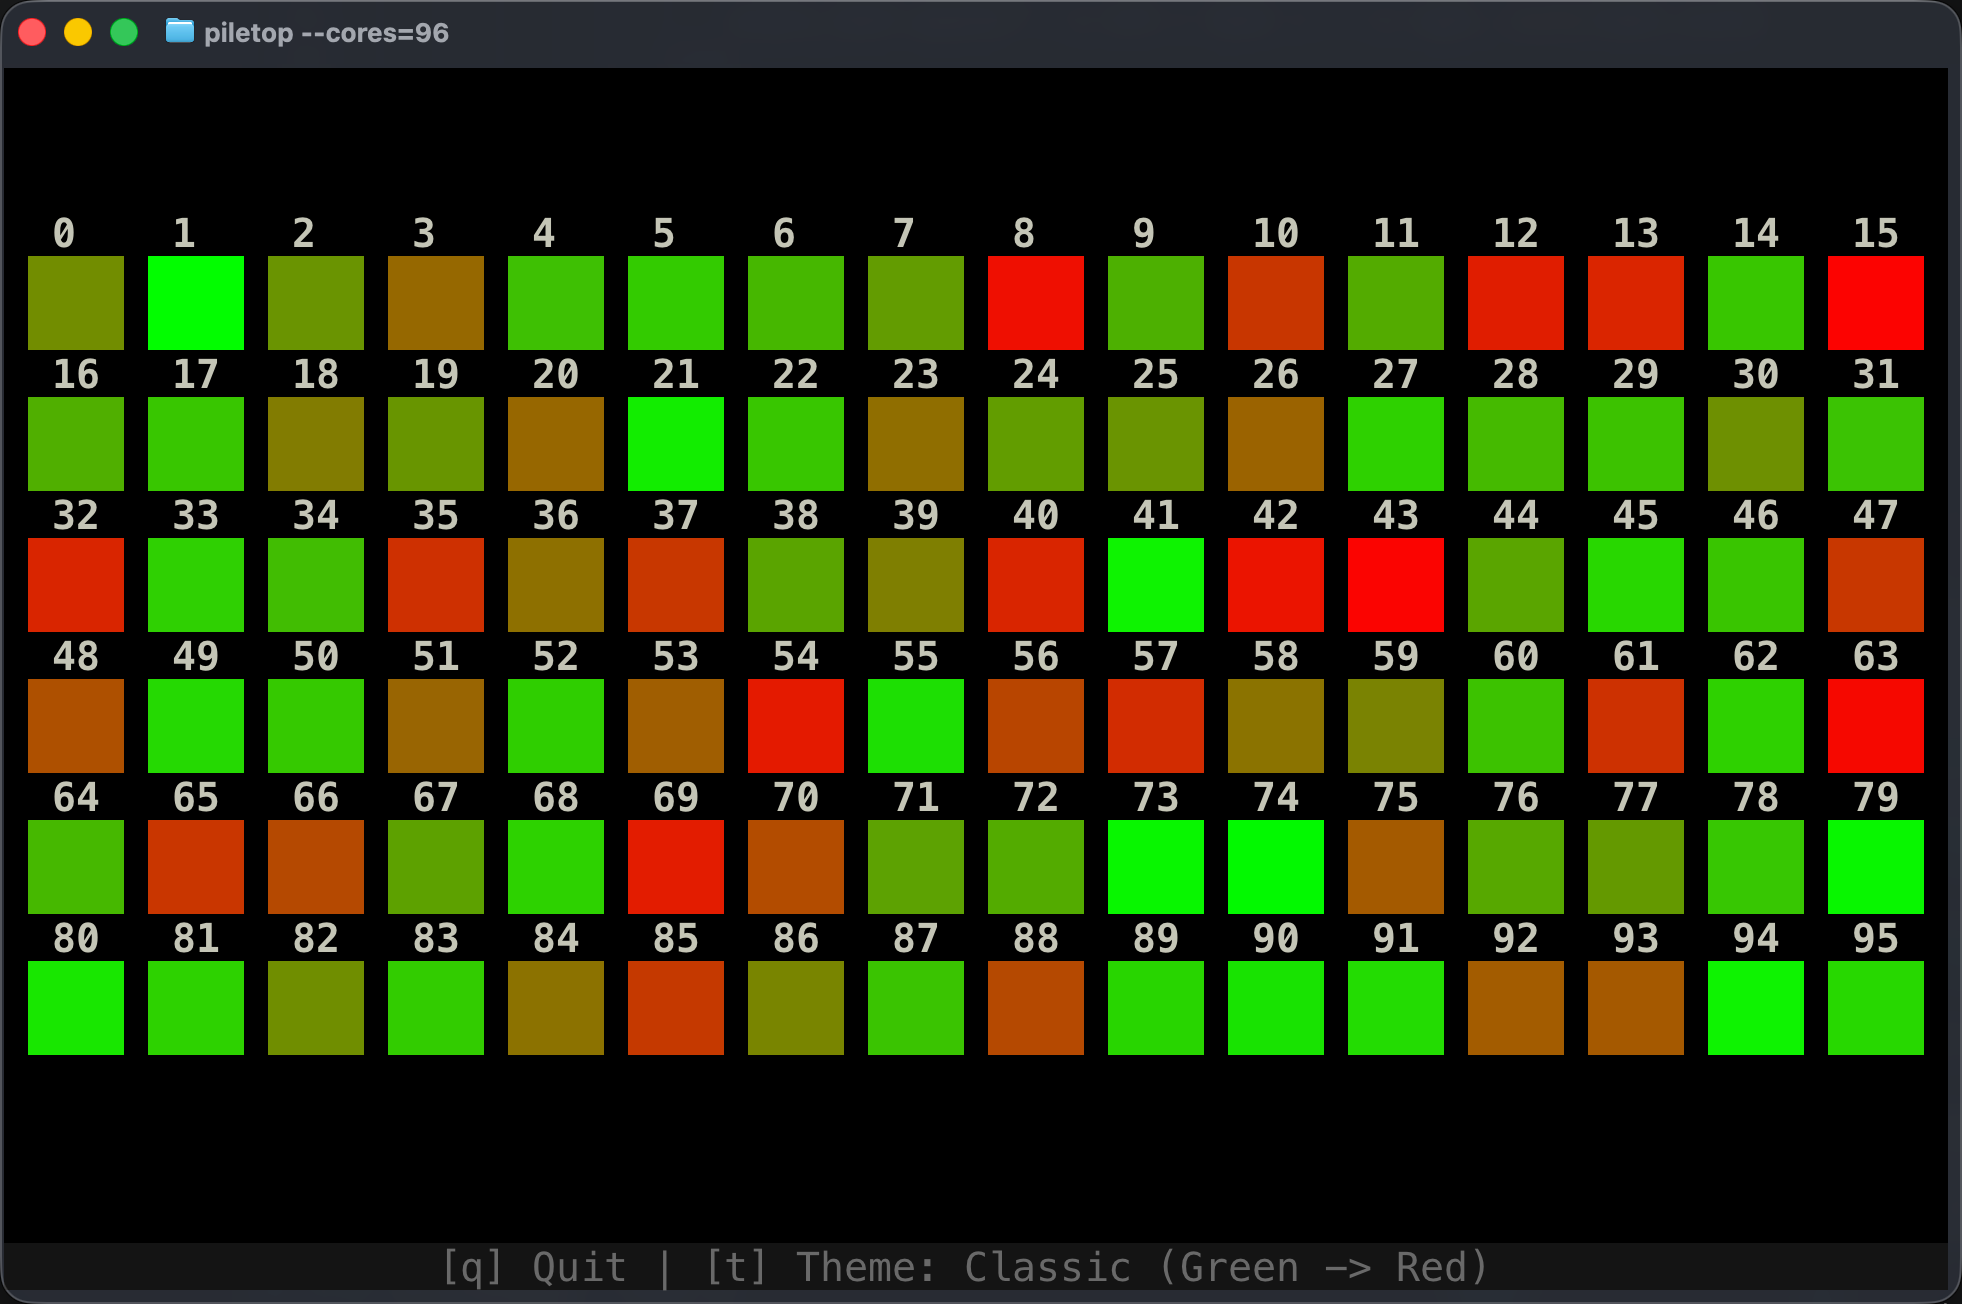
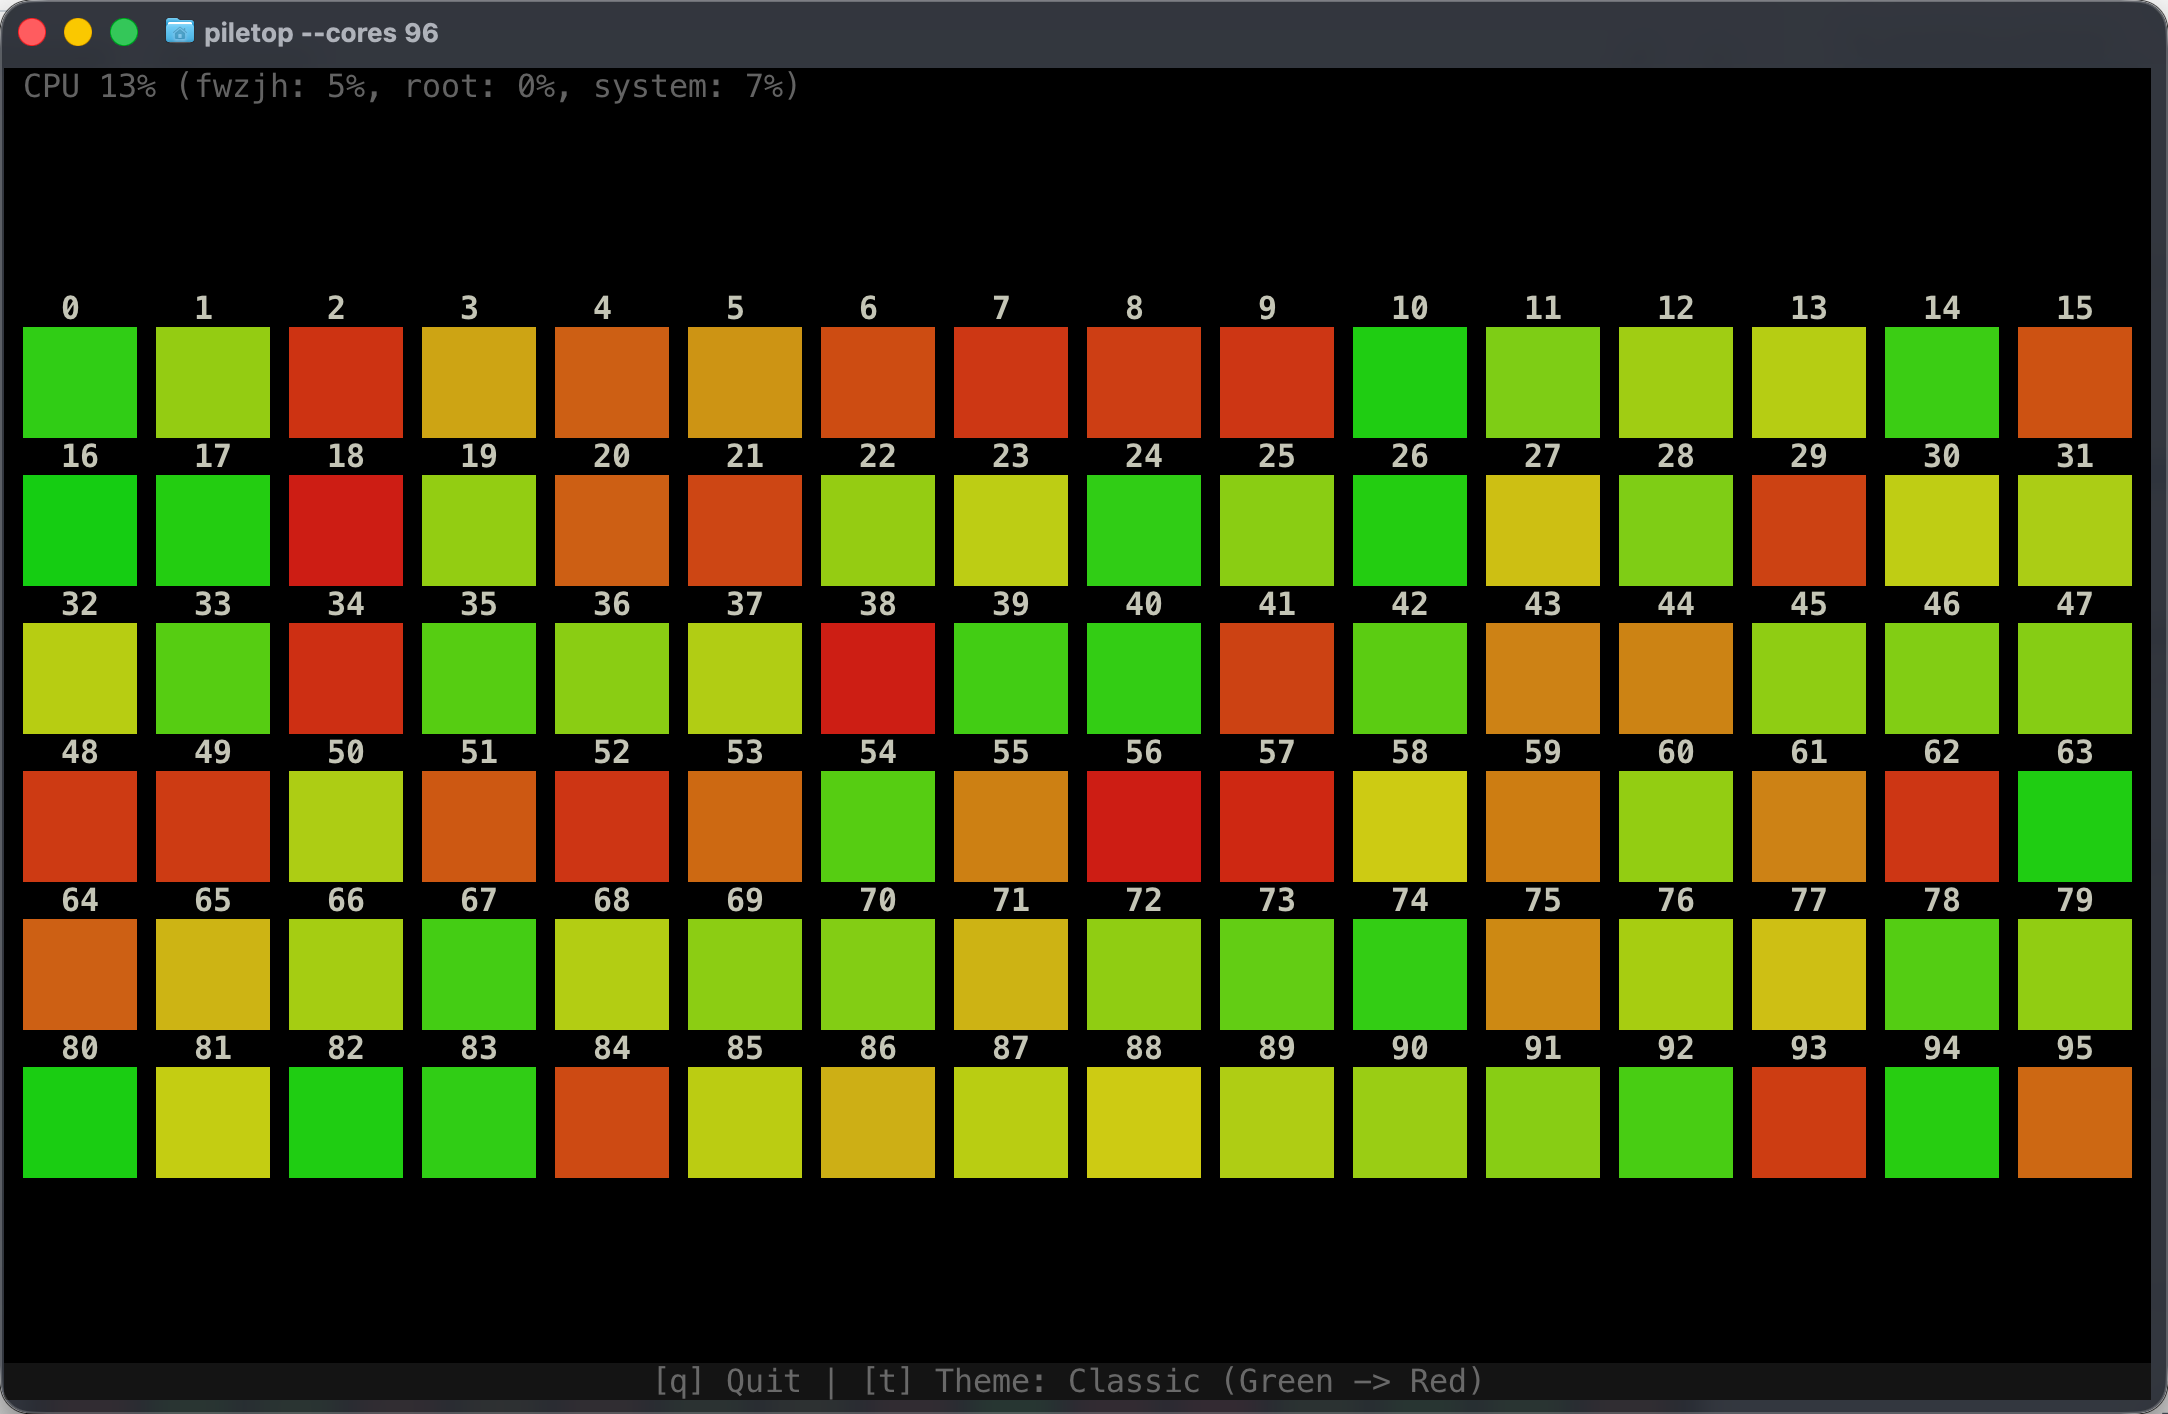
update README

diff --git a/README.md b/README.md
@@ -14,7 +14,7 @@ uv tool install git+https://github.com/jooooow/piletop.git
 piletop
 ```
 
-![alt text](image.png)
+![alt text](image.png?v=2)
 
 ## Keys
 - `q`: Quit